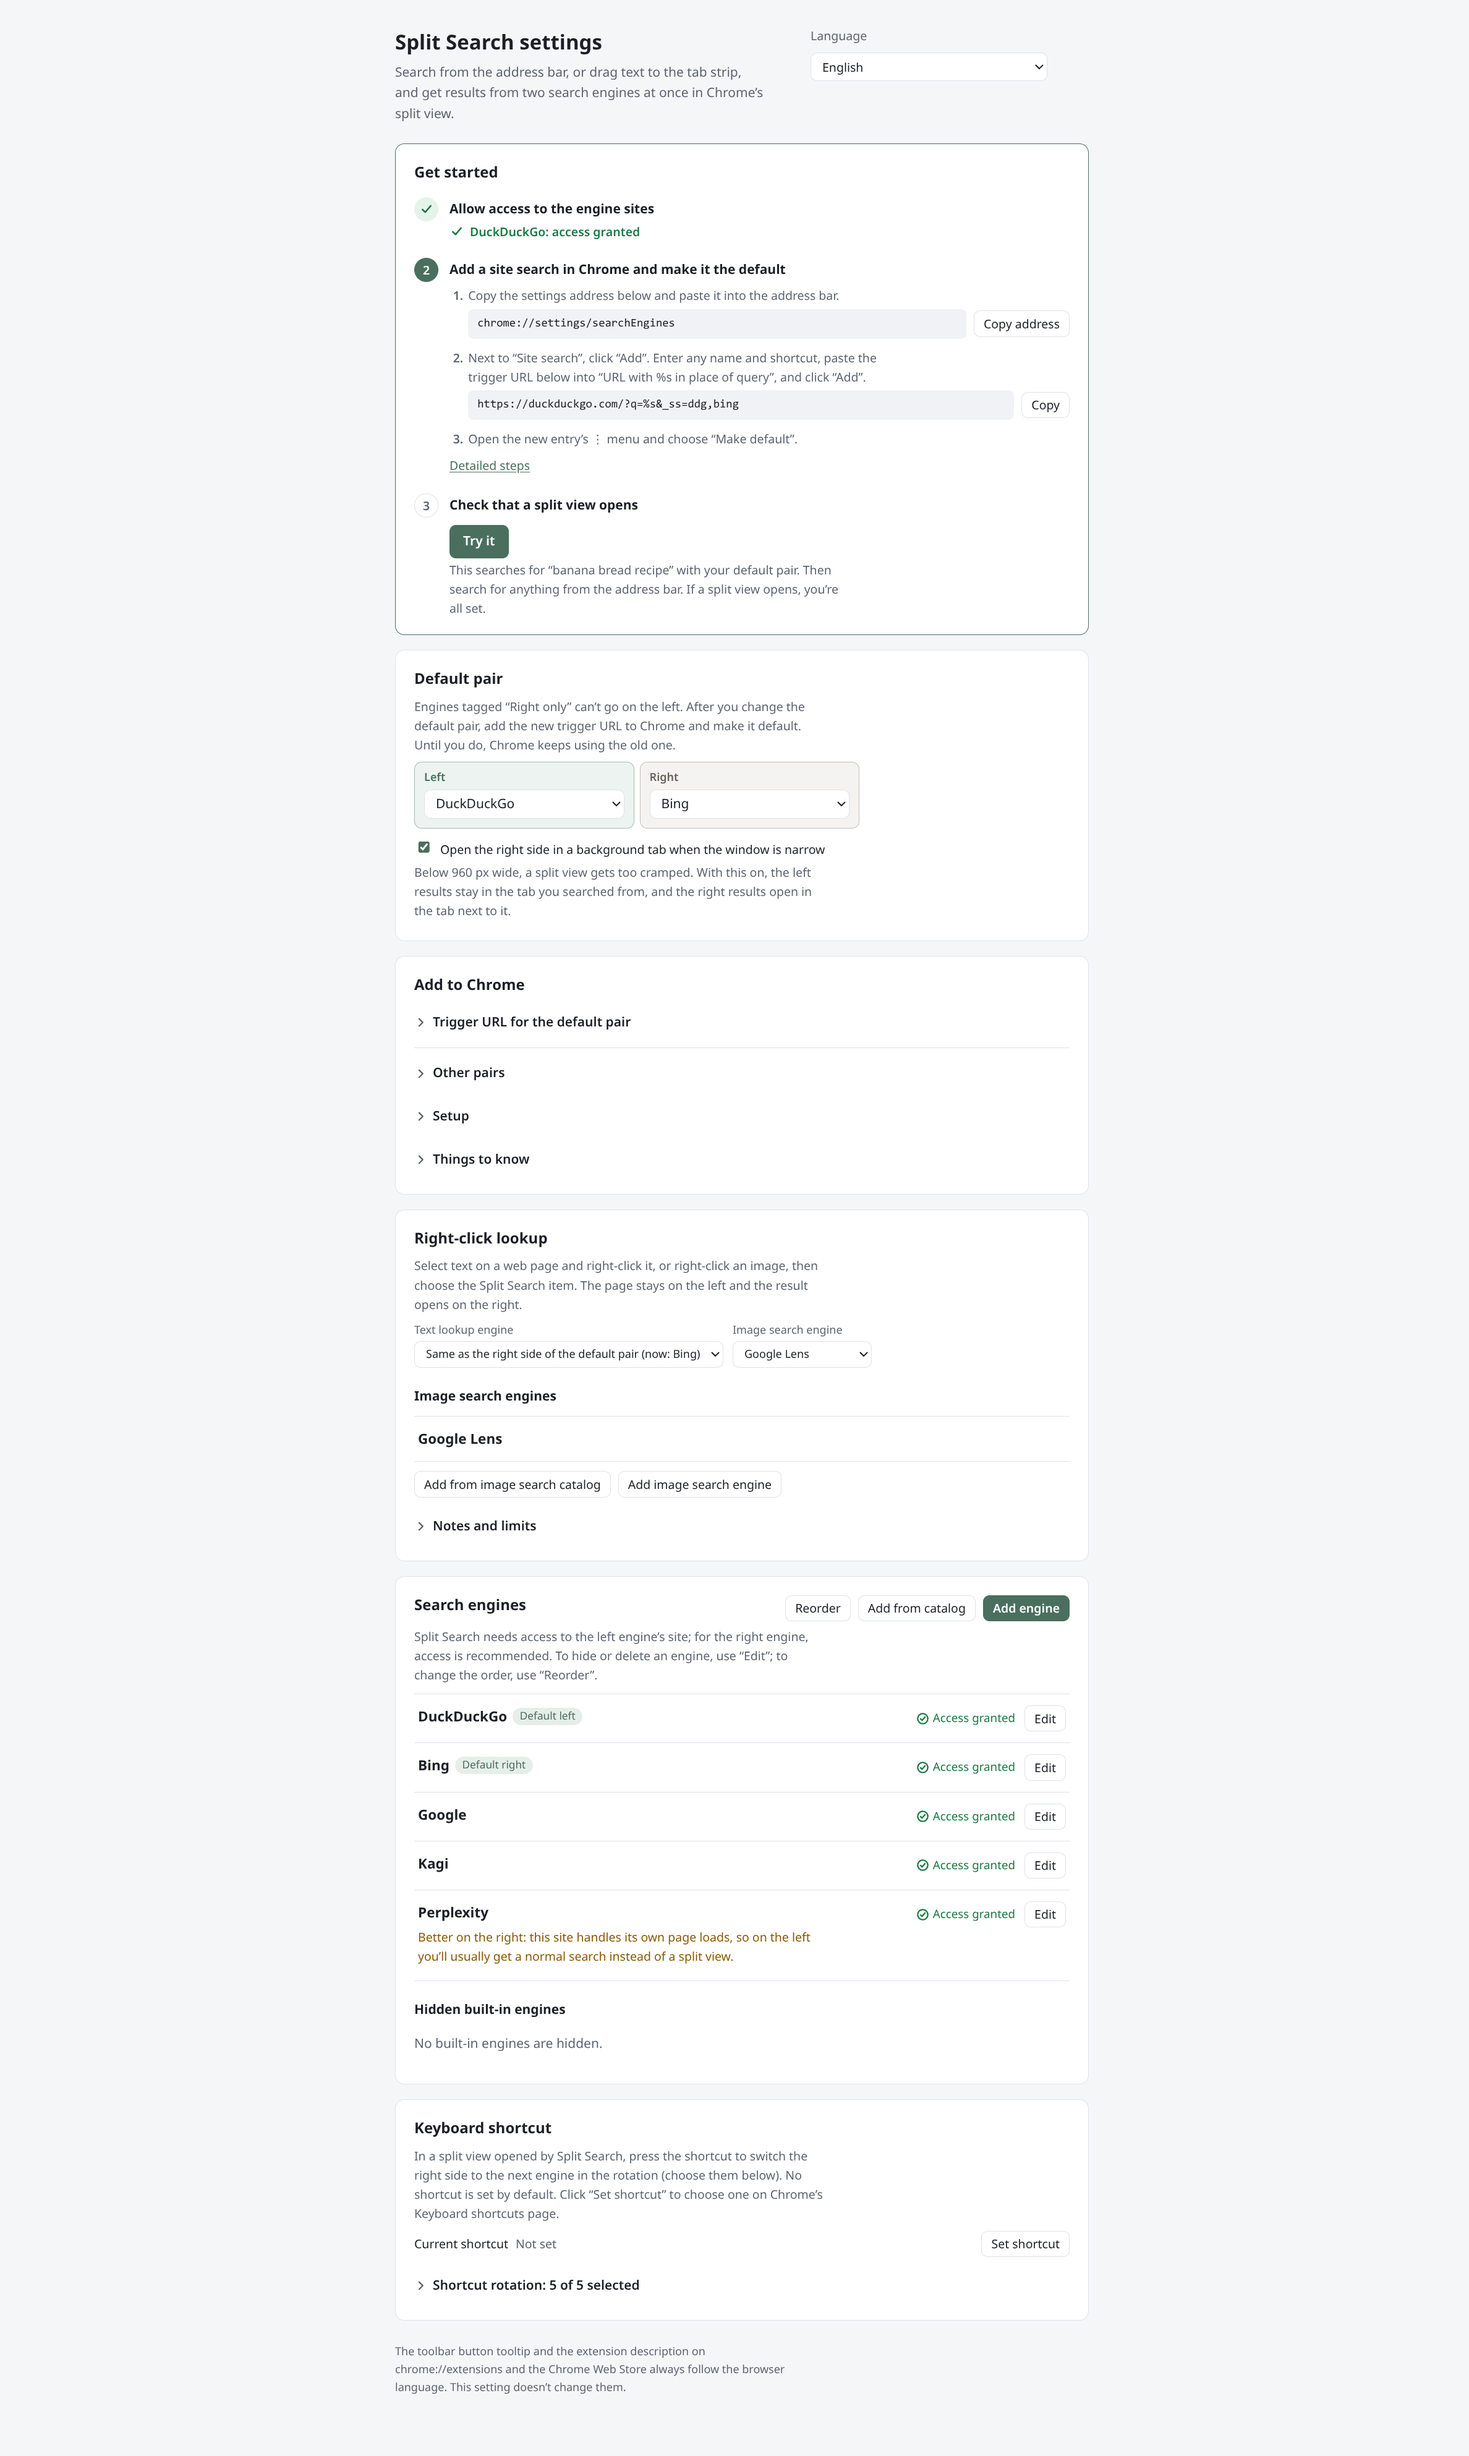
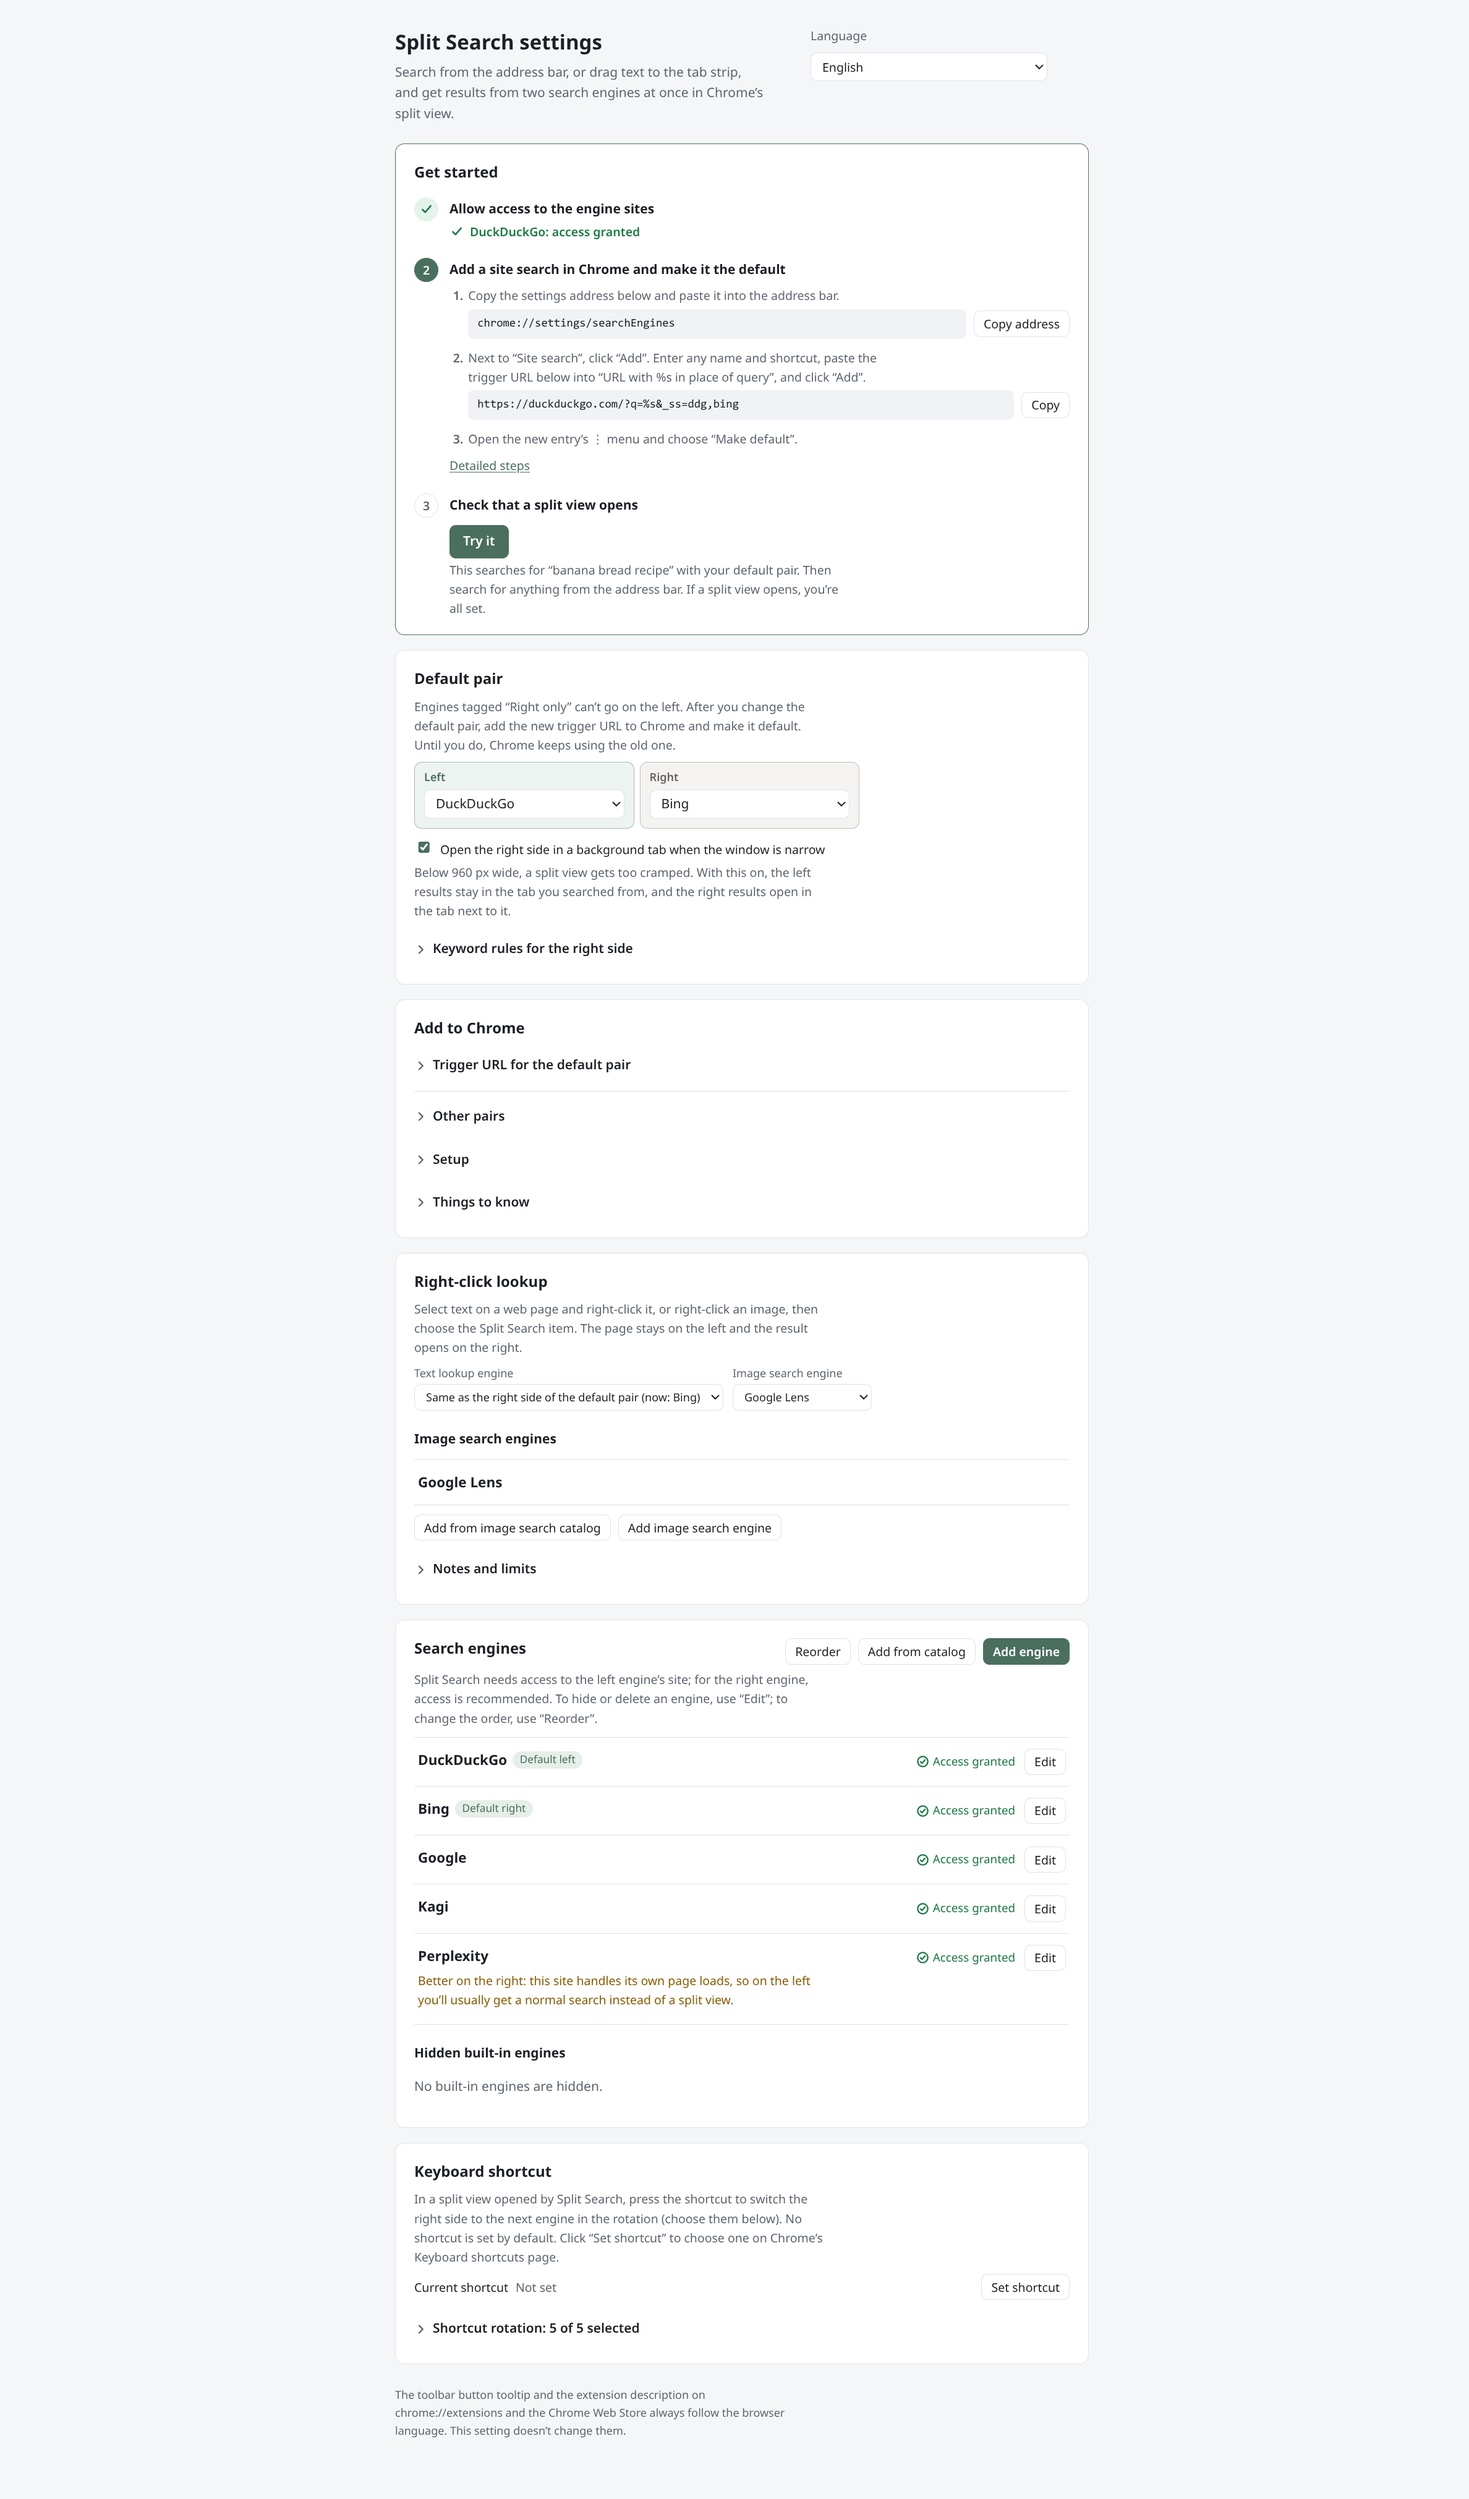
docs(assets): reshoot the en settings full-page capture for v0.5
The default pair card now ends with the collapsed keyword rules section. Reshot with the same private Xvfb setup; options-top and options-engines were unchanged apart from the scrollbar and antialiasing, so only options-fullpage.png is replaced. Rendered store and README images are byte-identical.

Claude-Session: https://claude.ai/code/session_01QAFczmx2FRoPgu46A1z6D9

Changed region(s): [[0.2803, 0.0312, 0.5918, 0.9678], [0.6229, 0.6244, 0.7163, 0.7805], [0.436, 0.5932, 0.5295, 0.6244]]

diff --git a/assets/raw/captions.md b/assets/raw/captions.md
@@ -74,7 +74,7 @@ convert drag-to-tabstrip.png \
 |---|---|
 | `en/options-top.png` | 设置页首屏（英文界面，2026-10-27 第六次重拍，见下文“设置页三张的重拍”）：标题、语言下拉框、“Get started”卡（第 1 步“DuckDuckGo: access granted”，第 2 步的三个编号小步：`chrome://settings/searchEngines` 带“Copy address”、触发网址 `https://duckduckgo.com/?q=%s&_ss=ddg,bing` 带“Copy”、在 ⋮ 菜单里选“Make default”，第 3 步“Try it”）、“Default pair”卡开头的左右两个窗格 |
 | `en/options-engines.png` | 设置页滚动到“Search engines”卡片，卡片上缘在视口顶下约 8 CSS 像素（原图 y≈143）；卡头是“Reorder”“Add from catalog”“Add engine”；五个引擎都是“Access granted”和一个“Edit”按钮，DuckDuckGo、Bing 带“Default left/Default right”标签，行上没有轮换复选框和“不能隐藏”的说明，前四行等高；在 x=700 处，行分隔线在原图 y 333、412、492、571、650（2026-10-27 第六次重拍） |
-| `en/options-fullpage.png` | 设置页整页（CDP `Page.captureScreenshot`），2376×3972（2026-10-27 第六次重拍） |
+| `en/options-fullpage.png` | 设置页整页（CDP `Page.captureScreenshot`），2376×4041（2026-10-27 v0.5 重拍，见下文“设置页三张的重拍”） |
 | `en/split-ddg-bing-rust.png` | 新标签打开触发网址 `https://duckduckgo.com/?q=rust+programming&_ss=ddg,bing`，扩展建成 DuckDuckGo ｜ Bing 拆分视图；标签栏里是“Split Search settings”和两个分屏标签 |
 | `en/drag-to-tabstrip.png` | 英文维基百科“Rust (programming language)”，在正文“Software developer Graydon Hoare created Rust…”里选中“Graydon Hoare”（不是链接），用 xdotool 真实按下拖到标签栏空白处（落点 1460,30），没松手时截图。第一个标签旁同样有 Xvfb 下的黑底插入箭头（397,61），商店截图 3（v2）的裁切包含它，用 `en/patches/` 的修补图盖掉（见“修补”） |
 | `en/drag-result-split.png` | 松手后：默认搜索引擎（触发网址）打开新标签，扩展建成 DuckDuckGo ｜ Bing 拆分视图，查询词“Graydon Hoare” |
@@ -106,5 +106,7 @@ convert drag-to-tabstrip.png \
 商店截图 4 多出的一行空白（同日查明；第六次重拍后行上没有这行说明，四行等高，改回整块裁切，见下文）：DuckDuckGo、Bing 两行右侧多一行“不能隐藏”的说明，所以这两行比 Google、Kagi 高 38 原图像素；商店截图 4 和顶部宣传图的裁切都只到行的左半边，说明在画面外，整块裁切就在这两行的复选框下面各留一行空白。原因在模板的裁切，不在文案。改成按行分段裁切、上下紧接：DuckDuckGo 行与 Bing 行都切在复选框一行之后（与 Google 行同高），切掉的两条带在画面可见范围里是纯白，没有删掉任何看得见的内容（见 `assets/templates-v2/store-4-engines.html`、`promo-marquee.html` 的注释）。
 
 第六次重拍（2026-10-27，引擎行精简，设计见 `docs/superpowers/specs/2026-10-27-engine-row-design.md`）：引擎行上只剩授权状态、授权按钮（没授权时）和“Edit”，隐藏/删除挪进编辑对话框，轮换复选框挪到快捷键卡的“Shortcut rotation”折叠区，↑↓ 只在“Reorder”模式里出现，卡头多一个“Reorder”按钮，卡片说明换成新句子。三张 `en/options-*.png` 都用同一个脚本、同一套环境和状态重拍（私有 Xvfb :131、Chrome 156.0.8078.47、全新临时配置、五个预置引擎在授权框里点“允许”、没有 `setupDone`），扩展是当时 main 上的 `src/`（1db3f95）。`options-top.png` 与上一版只差右边滚动条滑块（整页变矮了）和文字抗锯齿，画面内容相同；`options-engines.png` 里行变矮、前四行等高（79 原图像素），分隔线在 y 333、412、492、571、650；`options-fullpage.png` 变成 2376×3972，快捷键卡多一个收起的“Shortcut rotation: 5 of 5 selected”。各行等高后不再需要分段裁切：商店截图 4 改成整块 `648,334,1120,316`（DuckDuckGo 到 Kagi 四行），顶部宣传图的 02 卡片改成整块 `640,334,678,158`（DuckDuckGo、Bing 两行），重新渲染后这两张图里的引擎行变矮、卡片随之变矮，渲染器没有报溢出。
+
+v0.5（2026-10-27，按关键词换右侧，设计见 `docs/superpowers/specs/2026-10-27-v0.5-keyword-routing-design.md`）：默认组合卡末尾多了收起的“Keyword rules for the right side”折叠区。用同一个脚本、同一套环境和状态（私有 Xvfb :131、Chrome 156.0.8078.47、全新临时配置、五个预置引擎在授权框里点“允许”、没有 `setupDone`）重拍了三张，扩展是 2f6faa6（v0.5.0）的 `src/`，只换了 `options-fullpage.png`：变成 2376×4041，默认组合卡里窄窗口复选框和说明之后多一行收起的规则区。`options-top.png` 的画面截到默认组合卡的左右窗格为止，规则区不在其中，新拍的与上一版只差右边滚动条滑块，保留上一版；`options-engines.png` 的引擎卡在 v0.5 没变，新拍的只有文字抗锯齿和不到 1 CSS 像素的滚动位置差，保留上一版。`--locale en` 重新渲染后商店图和 README 图逐字节不变（它们不用整页图）。
 
 每张都逐一看过：没有中文、没有账号头像（右上角是未登录的默认图标）、没有 Kagi 或其他网站的令牌、IP 和浏览历史。网页内容是网站当时实际返回的结果，没有改过。
